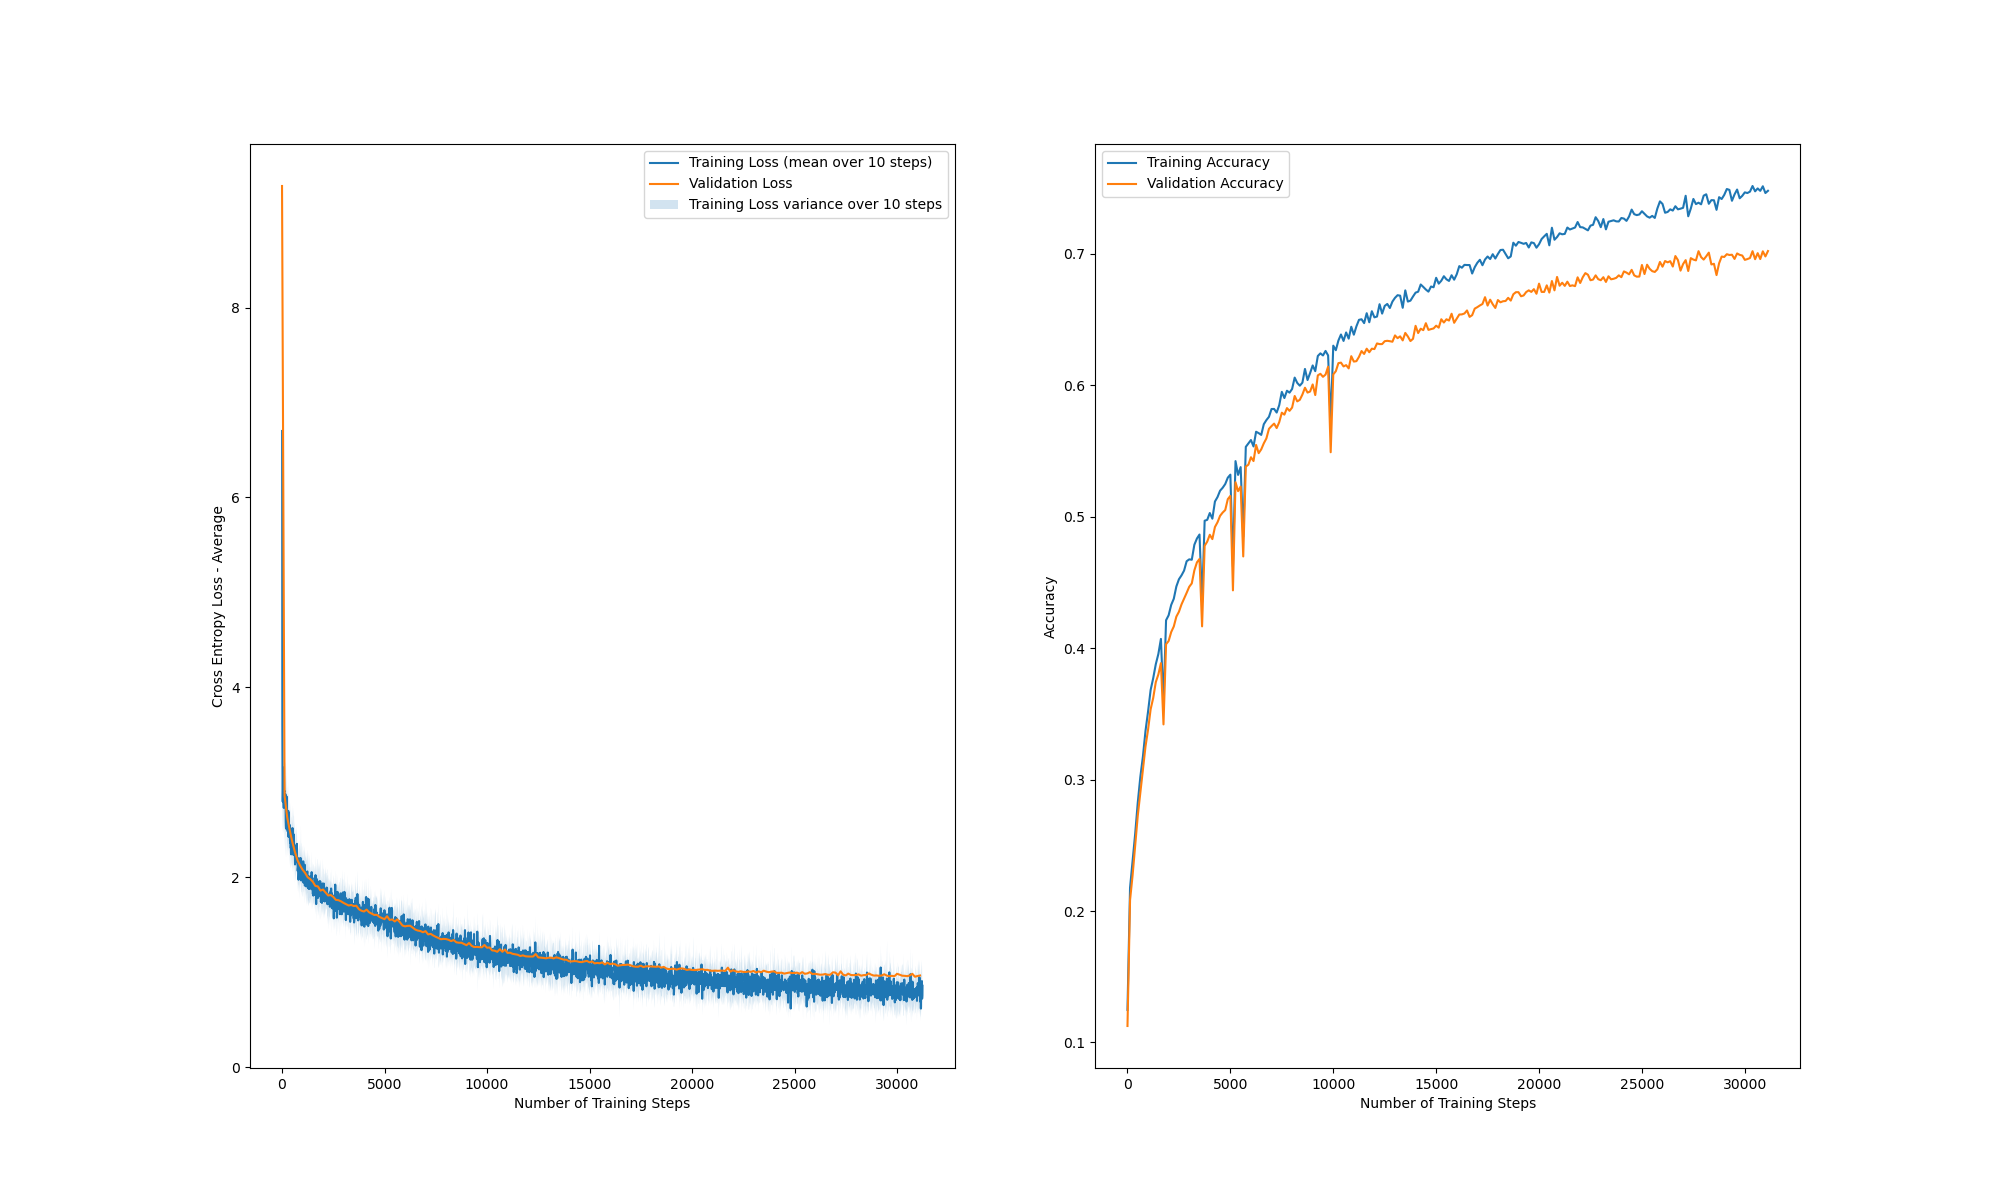
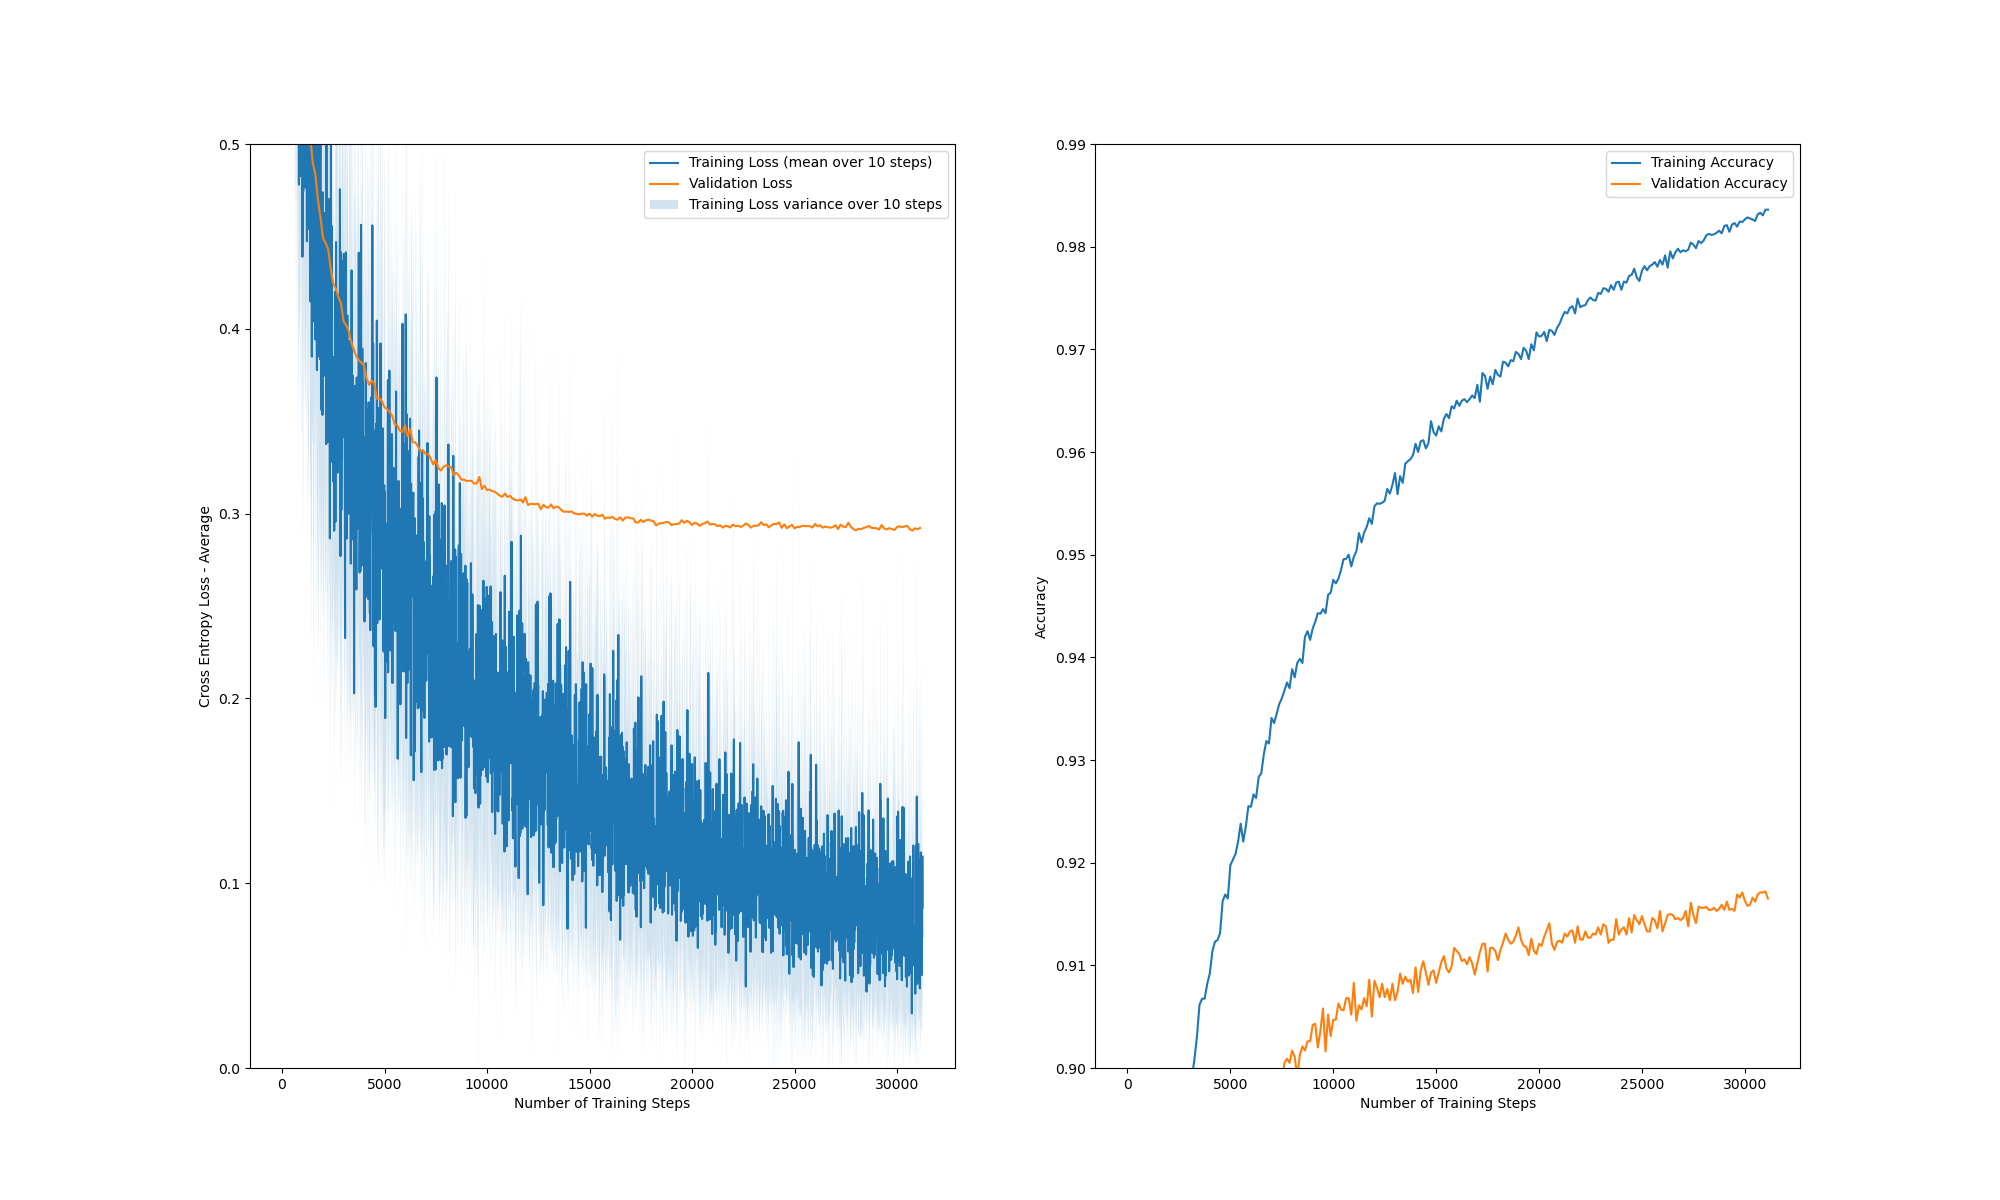
fixed many things

diff --git a/assignment2/task2a.py b/assignment2/task2a.py
@@ -59,6 +59,7 @@ class SoftmaxModel:
         # Define number of input nodes
         self.I = 785
         self.use_improved_sigmoid = use_improved_sigmoid
+        self.use_improved_weight_init = use_improved_weight_init
 
         # Define number of output nodes
         # neurons_per_layer = [64, 10] indicates that we will have two layers:
@@ -72,12 +73,12 @@ class SoftmaxModel:
         for size in self.neurons_per_layer:
             w_shape = (prev, size)
             print("Initializing weight to shape:", w_shape)
-            if (self.use_improved_sigmoid):
+            if (self.use_improved_weight_init):
                 fan_in = 1/np.sqrt(prev)
                 mean = 0
                 w = np.random.normal(mean, fan_in, w_shape)
             else:
-                w = np.random.normal(-1,1,w_shape)
+                w = np.random.uniform(-1,1,w_shape)
             self.ws.append(w)
             prev = size
         self.grads = [None for i in range(len(self.ws))]
@@ -151,9 +152,9 @@ class SoftmaxModel:
         If there are any hidden layers, these will be computed by the loop below.
         '''
         for layer in range(1,len(self.grads)):
-            sp = sigmoid_prime(self.zs[-layer+1])
+            sp = sigmoid_prime(self.zs[-layer-1])
             dj = sp*(dj@self.ws[-layer].T)
-            grad_j = (1/N)*(self.activations[-layer+1].T@dj)
+            grad_j = (1/N)*(self.activations[-layer-2].T@dj)
             self.grads[-layer-1] = grad_j
     
         for grad, w in zip(self.grads, self.ws):

diff --git a/assignment2/task3.py b/assignment2/task3.py
@@ -16,8 +16,8 @@ if __name__ == "__main__":
     momentum_gamma = .9  # Task 3 hyperparameter
     shuffle_data = True
 
-    use_improved_sigmoid = True
-    use_improved_weight_init = True
+    use_improved_sigmoid = False
+    use_improved_weight_init = False
     use_momentum = False
 
     # Load dataset
@@ -57,16 +57,17 @@ if __name__ == "__main__":
 
     plt.subplot(1, 2, 1)
     utils.plot_loss(train_history["loss"],
-                    "Task 2 Model", npoints_to_average=10)
+                    "Shuffled - model as in task 2", npoints_to_average=10)
     utils.plot_loss(
-        train_history_no_shuffle["loss"], "Task 2 Model - No dataset shuffling", npoints_to_average=10)
-    plt.ylim([0, .4])
+        train_history_no_shuffle["loss"], "Unshuffled - model as in task 2", npoints_to_average=10)
+    plt.ylim([0, .4]) 
     plt.subplot(1, 2, 2)
     plt.ylim([0.89, .95])
-    utils.plot_loss(val_history["accuracy"], "Task 2 Model")
+    utils.plot_loss(val_history["accuracy"], "Shuffled - model as in task 2")
     utils.plot_loss(
-        val_history_no_shuffle["accuracy"], "Task 2 Model - No Dataset Shuffling")
+        val_history_no_shuffle["accuracy"], "Unshuffled - model as in task 2")
     plt.ylabel("Validation Accuracy")
     plt.legend()
     plt.show()
+    plt.savefig("task3.png")
     

diff --git a/assignment2/task2.py b/assignment2/task2.py
@@ -137,7 +137,7 @@ if __name__ == "__main__":
     # Plot loss for first model (task 2c)
     plt.figure(figsize=(20, 12))
     plt.subplot(1, 2, 1)
-    #plt.ylim([0., .5])
+    plt.ylim([0., .5])
     utils.plot_loss(train_history["loss"],
                     "Training Loss", npoints_to_average=10)
     utils.plot_loss(val_history["loss"], "Validation Loss")
@@ -146,10 +146,10 @@ if __name__ == "__main__":
     plt.ylabel("Cross Entropy Loss - Average")
     # Plot accuracy
     plt.subplot(1, 2, 2)
-    #plt.ylim([0.90, .99])
+    plt.ylim([0.90, .99])
     utils.plot_loss(train_history["accuracy"], "Training Accuracy")
     utils.plot_loss(val_history["accuracy"], "Validation Accuracy")
     plt.xlabel("Number of Training Steps")
     plt.ylabel("Accuracy")
     plt.legend()
-    plt.savefig("tasktest_train_loss.png")
+    plt.savefig("task2c_train_loss.png")

diff --git a/assignment2/trainer.py b/assignment2/trainer.py
@@ -76,7 +76,6 @@ class BaseTrainer:
 
 
         global_step = 0
-        stop = False
         best = 1000000000 #Some great number representing infinity
         best_arr = [] #This will hold the best values for each epoch (validation loss)
 
